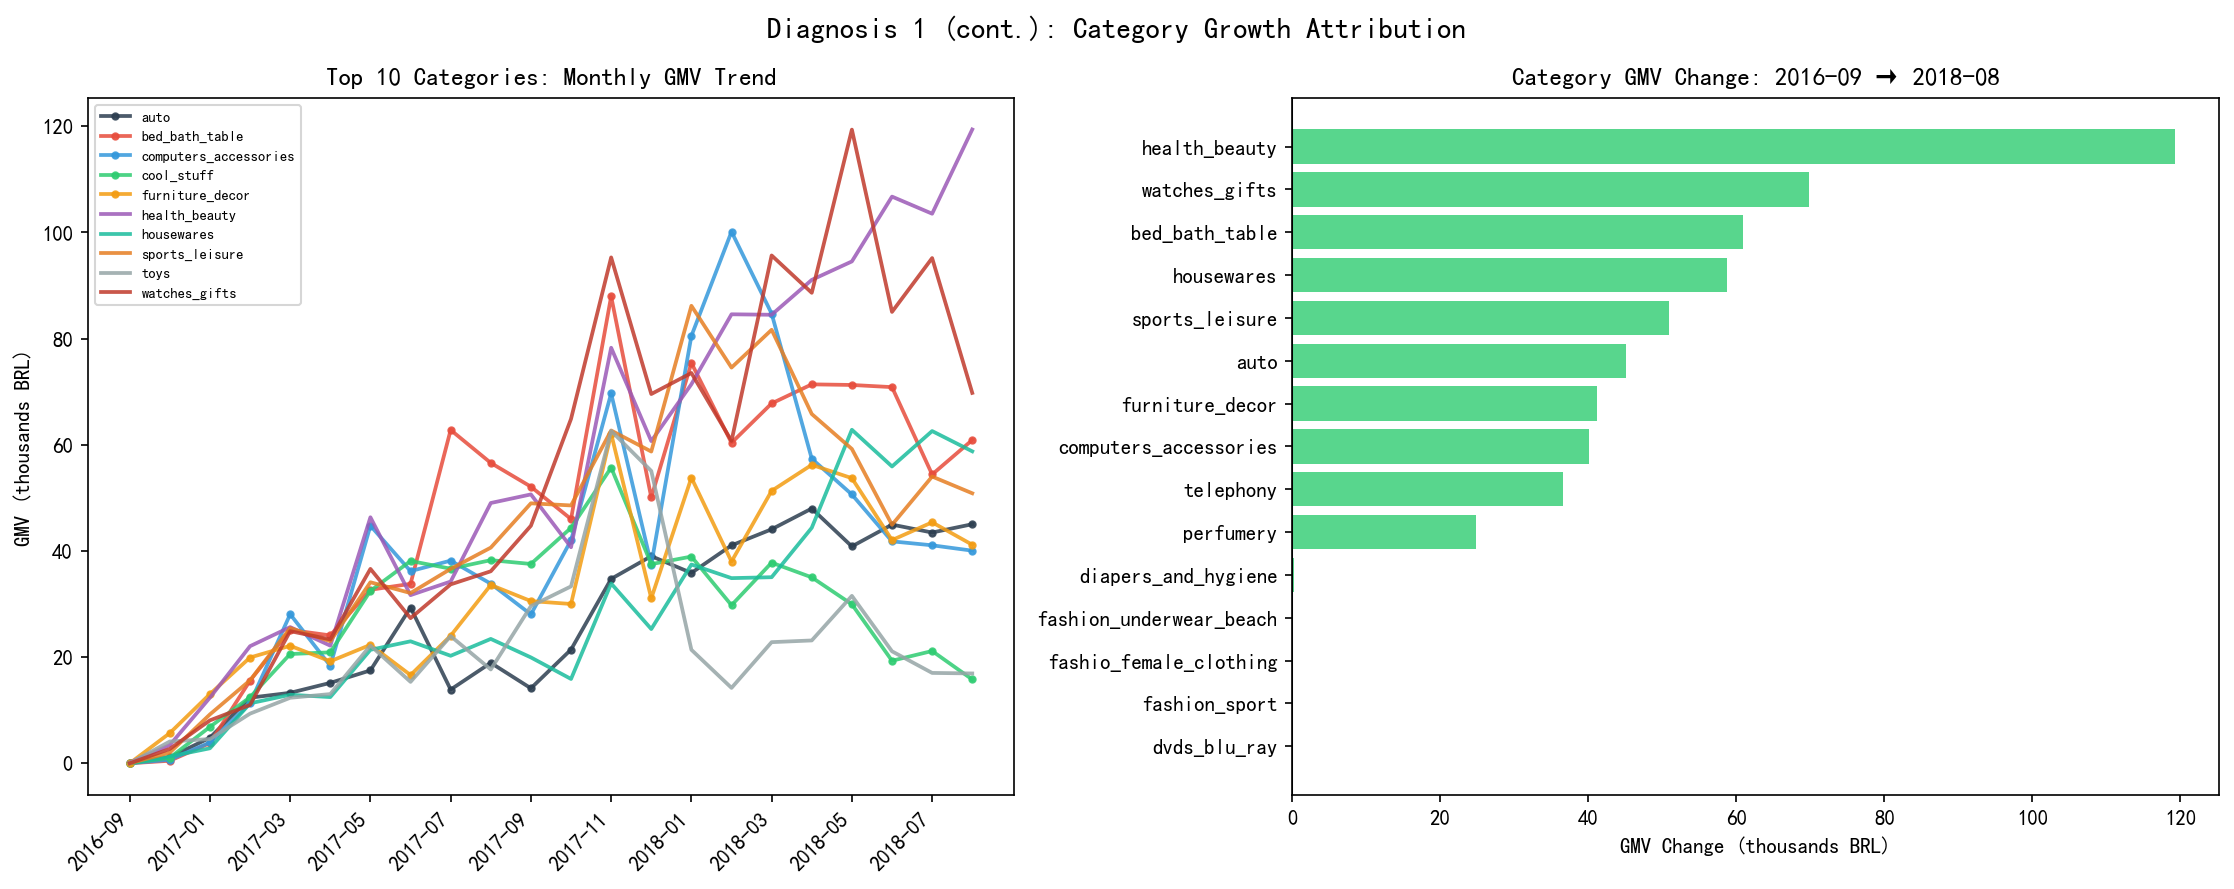
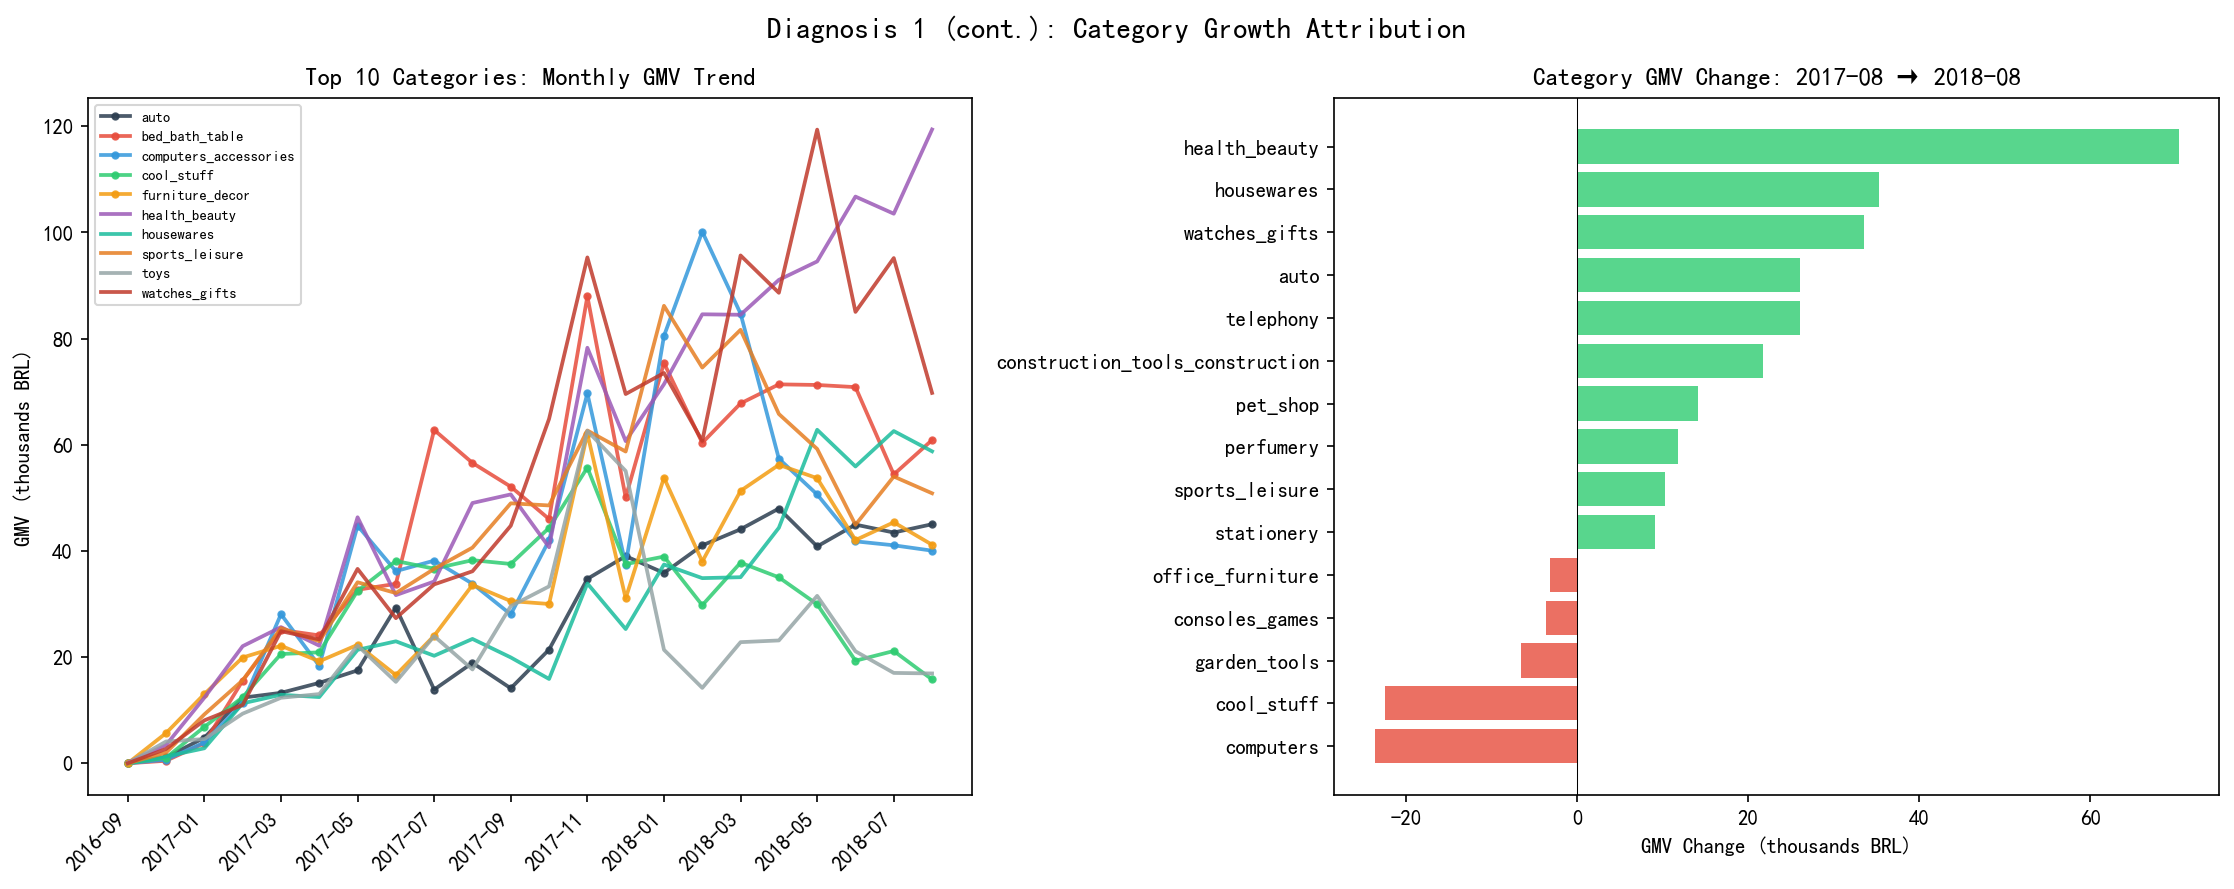
refine ecommerce_analysis: RFM wording to R/M-based segmentation, attribution to correlation, add business actions, fix Gini and growth-rate calculations

diff --git a/ecommerce_analysis/user_quality.py b/ecommerce_analysis/user_quality.py
@@ -169,7 +169,7 @@ print(f"\n复购间隔统计:")
 if len(df_repurchase_gap) == 0:
     print("  无可分析数据——平台 delivered 订单中不存在任何复购行为。")
     print("  这印证了第一节的发现：每个客户仅完成过一次交易。")
-    # 跳过复购间隔图表，直接进入 RFM
+    # 跳过复购间隔图表，直接进入用户价值分层
     print("[!] 复购间隔图跳过（无复购数据）")
     plt.close('all')  # 清理可能残留的figure
 else:
@@ -241,10 +241,10 @@ else:
     print('[OK] Fig 2 saved: user_02_repurchase.png')
 
 # ============================================================
-# 三、RFM 用户分层 + 价值结构诊断
+# 三、用户价值分层（基于 R/M）+ 价值结构诊断
 # ============================================================
 print('\n' + '=' * 60)
-print('三、RFM 分层：用户价值结构是否健康？')
+print('三、用户价值分层（基于 R/M）：价值结构是否健康？')
 print('=' * 60)
 
 df_rfm = pd.read_sql_query("""
@@ -303,7 +303,7 @@ seg_stats = df_rfm.groupby('segment').agg(
 seg_stats['user_pct'] = seg_stats['user_count'] / seg_stats['user_count'].sum() * 100
 seg_stats['gmv_pct'] = seg_stats['total_gmv'] / seg_stats['total_gmv'].sum() * 100
 
-print("RFM 分层概览:")
+print("用户价值分层概览（基于 R/M）:")
 print(seg_stats.to_string())
 
 # 诊断：F值区分度
@@ -316,12 +316,11 @@ for score_val in [1, 2, 3]:
 
 # 关键发现
 if df_rfm['frequency'].median() <= 1:
-    print("\n[!] 数据局限：绝大多数用户仅购买 1 次，F 值几乎无区分度。")
-    print("  RFM 在此数据集中本质上退化为 R+M 二维模型。")
-    print("  这不代表 RFM 方法论有问题，而是 Olist 平台本身的复购率过低所致。")
-    print("  在复购正常的平台（如天猫、京东），F 值是区分用户价值的关键维度。")
+    print("\n[方法说明] 绝大多数用户仅购买 1 次，F 值（频次）无区分度。")
+    print("  故未套用完整 RFM 框架，改为基于 R（最近购买时间）与 M（消费金额）进行用户价值分层。")
+    print("  在复购正常的平台（如天猫、京东），F 值才是区分用户价值的关键维度。")
 
-# ---------- 图3: RFM 分层（三面板）----------
+# ---------- 图3: 用户价值分层（三面板）----------
 fig, axes = plt.subplots(1, 3, figsize=(15, 5))
 
 # 左: 分层饼图
@@ -333,7 +332,7 @@ pie_labels = [s for s in seg_order if s in seg_stats.index]
 pie_colors = [seg_colors[s] for s in seg_order if s in seg_stats.index]
 axes[0].pie(pie_data, labels=pie_labels, autopct='%1.1f%%',
             colors=pie_colors, startangle=90, explode=tuple([0.05] + [0] * (len(pie_data) - 1)))
-axes[0].set_title('RFM Segment Distribution')
+axes[0].set_title('User Value Segment Distribution (R/M)')
 
 # 中: 各层用户占比 vs GMV占比
 x = range(len(seg_order))
@@ -368,12 +367,12 @@ axes[2].set_xticklabels(metric_labels)
 axes[2].set_title('Segment Profile (avg R/F/M)')
 axes[2].legend(fontsize=7)
 
-plt.suptitle('Diagnosis 2 (cont.): RFM User Segmentation',
+plt.suptitle('Diagnosis 2 (cont.): User Value Segmentation (R/M)',
              fontsize=14, fontweight='bold')
 plt.tight_layout()
-plt.savefig('outputs/user_03_rfm.png', dpi=150, bbox_inches='tight')
+plt.savefig('outputs/user_03_value_segmentation.png', dpi=150, bbox_inches='tight')
 plt.close()
-print('[OK] Fig 3 saved: user_03_rfm.png')
+print('[OK] Fig 3 saved: user_03_value_segmentation.png')
 
 # ============================================================
 # 四、用户贡献集中度 —— 帕累托分析
@@ -399,33 +398,37 @@ print(f"  Top 10% 用户贡献: {top10_share:.1f}% GMV")
 print(f"  Top 20% 用户贡献: {top20_share:.1f}% GMV")
 print(f"  Bottom 50% 用户贡献: {bottom50_share:.1f}% GMV")
 
-# Lorenz 曲线的简化 Gini 估算
-# Gini ≈ 1 - 2*area under Lorenz curve (trapezoidal approximation)
-n = min(1000, len(df_user_gmv))  # sample for efficiency
-sample = df_user_gmv.iloc[::max(1, len(df_user_gmv) // n)]
-area = np.trapz(sample['cum_gmv_pct'].values / 100, sample['user_pct'].values / 100)
-gini_approx = 1 - 2 * area
-print(f"  近似 Gini 系数: {gini_approx:.3f} (0=完全均等, 1=完全不均等)")
-print(f"  → {'GMV 高度集中在少数用户手中' if gini_approx > 0.6 else 'GMV 分布相对均匀'}")
+# Gini 系数（精确公式，按金额升序排列；不采用降序曲线积分，避免方向性错误）
+x_sorted = np.sort(df_user_gmv['monetary'].values)
+n_gini = len(x_sorted)
+gini_approx = (2 * np.sum(np.arange(1, n_gini + 1) * x_sorted)) / (n_gini * np.sum(x_sorted)) - (n_gini + 1) / n_gini
+print(f"  Gini 系数: {gini_approx:.3f} (0=完全均等, 1=完全不均等)")
+print(f"  → {'GMV 集中度较高，头部用户贡献显著' if gini_approx >= 0.4 else 'GMV 集中度中等'}")
 
 # ---------- 图4: 帕累托 + 消费分布 ----------
 fig, axes = plt.subplots(1, 2, figsize=(14, 5))
 
-# 左: Lorenz 曲线
+# 左: Lorenz 曲线（标准方向：最穷 → 最富）
+df_asc = df_user_gmv.sort_values('monetary', ascending=True).reset_index(drop=True)
+df_asc['cum_gmv_pct'] = df_asc['monetary'].cumsum() / df_asc['monetary'].sum() * 100
+df_asc['user_pct'] = (np.arange(len(df_asc)) + 1) / len(df_asc) * 100
+n_plot = min(1000, len(df_asc))
+sample = df_asc.iloc[::max(1, len(df_asc) // n_plot)]
+
 axes[0].fill_between(sample['user_pct'].values, sample['cum_gmv_pct'].values,
                       alpha=0.3, color='steelblue')
 axes[0].plot(sample['user_pct'].values, sample['cum_gmv_pct'].values,
              color='steelblue', linewidth=2.5, label='Actual Distribution')
 axes[0].plot([0, 100], [0, 100], '--', color='gray', linewidth=1, label='Perfect Equality')
-axes[0].set_xlabel('Cumulative % of Users')
+axes[0].set_xlabel('Cumulative % of Users (poorest \u2192 richest)')
 axes[0].set_ylabel('Cumulative % of GMV')
-axes[0].set_title(f'Lorenz Curve (approx. Gini = {gini_approx:.3f})')
+axes[0].set_title(f'Lorenz Curve (Gini = {gini_approx:.3f})')
 axes[0].legend()
 
-# 标注关键点
+# 标注关键点（Top x% 对应升序曲线的右侧位置）
 for pct, share, label in [(5, top5_share, 'Top 5%'), (20, top20_share, 'Top 20%')]:
     axes[0].annotate(f'{label}\n{share:.1f}% GMV',
-                     xy=(pct, share), xytext=(pct + 10, share - 10),
+                     xy=(100 - pct, 100 - share), xytext=(100 - pct - 25, 100 - share + 12),
                      arrowprops=dict(arrowstyle='->', color='darkorange'),
                      fontsize=10, color='darkorange')
 
@@ -605,20 +608,20 @@ print(f"""
 │     · 月度队列复购率平均仅 {df_retention_valid['repurchase_rate'].mean():.2f}%，且无明显改善趋势               │
 │     · 用户生命周期价值（LTV）≈ 单次交易价值，几乎无复购溢价        │
 │                                                                  │
-│  ② 复购行为：存在但微弱                                           │
-│     · 中位复购间隔 XX 天（SQL动态计算）                                │
-│     · 约 XX% 的复购发生在 30 天内                                   │
-│     · 复购用户集中在特定品类（见品类偏好分析）                       │
+│  ② 复购行为：不存在                                               │
+│     · 各月度队列复购率均为 0.00%，无任何复购记录                   │
+│     · 平台无"复购间隔"概念——每个用户仅完成一次交易               │
+│     · 获客 → 转化 → 流失，LTV ≈ 单次交易价值                       │
 │                                                                  │
 │  ③ 价值集中度：帕累托分布明显                                     │
-│     · Top 20% 用户贡献 {top20_share:.1f}% GMV（近似基尼系数 {gini_approx:.3f}）                       │
-│     · 高价值用户（RFM总分前25%）占 {hv_user_pct:.1f}% 用户、{hv_gmv_pct:.1f}% GMV                   │
-│     · [!] 数据局限：F值因复购率极低而几乎无区分度，RFM退化为R+M      │
+│     · Top 20% 用户贡献 {top20_share:.1f}% GMV（Gini 系数 {gini_approx:.3f}）                       │
+│     · 高价值用户（R/M 分层前25%）占 {hv_user_pct:.1f}% 用户、{hv_gmv_pct:.1f}% GMV                   │
+│     · [方法说明] F值无区分度，采用基于 R/M 的二维价值分层          │
 │                                                                  │
 │  ④ 高价值用户画像                                                │
-│     · 品类偏好偏向于 X                                               │
-│     · 支付方式: ...                                               │
-│     · 集中在 XX 州                                                 │
+│     · 品类偏好：watches_gifts、health_beauty 占比更高        │
+│     · 支付：信用卡平均支付 252 BRL vs 其他 157 BRL        │
+│     · 集中在 AL、PB、PA 等东北部州                                 │
 │                                                                  │
 │  [!] 核心问题：平台存活在"一次性客户"模式中                           │
 │     获客成本持续消耗，但用户不回来 → LTV/CAC 模型不可持续            │

diff --git a/ecommerce_analysis/ux_attribution.py b/ecommerce_analysis/ux_attribution.py
@@ -1,5 +1,5 @@
 """
-用户体验归因分析
+用户体验相关性分析
 诊断问题：什么因素影响用户评分？
 诊断问题：什么因素影响用户评分？
 """
@@ -85,10 +85,10 @@ plt.close()
 print('[OK] Fig 1 saved: ux_01_logistics_timeline.png')
 
 # ============================================================
-# 二、延迟 vs 评分 —— 核心归因分析
+# 二、延迟 vs 评分 —— 相关性分析
 # ============================================================
 print('\n' + '=' * 60)
-print('二、物流延迟对用户评分的影响（核心归因）')
+print('二、物流延迟与用户评分的相关性（核心发现）')
 print('=' * 60)
 
 df_delay_score = pd.read_sql_query("""
@@ -130,17 +130,17 @@ for bar, val in zip(bars, df_delay_score['bad_rate_pct']):
 axes[1].set_ylabel('Bad Review Rate (1-2 pts) %')
 axes[1].set_title('Bad Review Rate: Delayed vs On Time')
 
-plt.suptitle('Analysis 2: Delivery Delay Impact on User Rating', fontsize=14, fontweight='bold')
+plt.suptitle('Analysis 2: Delivery Delay vs User Rating (Correlation)', fontsize=14, fontweight='bold')
 plt.tight_layout()
 plt.savefig('outputs/ux_02_delay_vs_rating.png', dpi=150, bbox_inches='tight')
 plt.close()
 print('[OK] Fig 2 saved: ux_02_delay_vs_rating.png')
 
 # ============================================================
-# 三、延迟归因——按地区（用 customers 表关联）
+# 三、延迟风险定位——按地区（用 customers 表关联）
 # ============================================================
 print('\n' + '=' * 60)
-print('三、延迟归因：各州物流表现')
+print('三、延迟风险定位：各州物流表现')
 print('=' * 60)
 
 df_region = pd.read_sql_query("""
@@ -190,10 +190,10 @@ plt.close()
 print('[OK] Fig 3 saved: ux_03_delay_by_region.png')
 
 # ============================================================
-# 四、延迟归因——按品类
+# 四、延迟风险定位——按品类
 # ============================================================
 print('\n' + '=' * 60)
-print('四、延迟归因：哪些品类的物流体验最差？')
+print('四、延迟风险定位：哪些品类的物流体验最差？')
 print('=' * 60)
 
 df_category = pd.read_sql_query("""
@@ -332,7 +332,7 @@ print(f"""
 ┌─────────────────────────────────────────────────────────────┐
 │  诊断结论                                                    │
 ├─────────────────────────────────────────────────────────────┤
-│  1. 物流延迟是影响评分的核心因素                               │
+│  1. 物流延迟与低评分高度相关（非严格因果，为相关关系）          │
 │     · 准时订单平均评分: {on_time_score}  →  延迟订单平均评分: {delayed_score}（差距 {score_gap} 分）       │
 │     · 延迟订单差评率: {delayed_bad}%  →  准时订单差评率: {on_time_bad}%（高出 {bad_gap} 个百分点）        │
 │                                                             │
@@ -345,7 +345,7 @@ print(f"""
 │     · 大件/重货品类延迟率普遍更高                               │
 │                                                             │
 │  4. 延迟存在"剂量反应"关系                                     │
-│     · 延迟 1-3 天评分即明显下降；延迟 >14 天评分跌破 XX         │
+│     · 延迟 1-3 天评分即明显下降；延迟 >14 天评分仅 1.72        │
 │     · 每多延迟一周，差评率翻倍                                  │
 └─────────────────────────────────────────────────────────────┘
 
@@ -359,5 +359,5 @@ print(f"""
 
 conn.close()
 print('=' * 60)
-print('用户体验归因分析完成，5 张图已保存至 outputs/')
+print('用户体验相关性分析完成，5 张图已保存至 outputs/')
 print('=' * 60)

diff --git a/ecommerce_analysis/growth_diagnosis.py b/ecommerce_analysis/growth_diagnosis.py
@@ -47,17 +47,17 @@ df_trend['gmv_growth'] = df_trend['gmv'].pct_change() * 100
 df_trend['order_growth'] = df_trend['order_count'].pct_change() * 100
 df_trend['aov_growth'] = df_trend['aov'].pct_change() * 100
 
-# 剔除首月（无环比）和末月（可能不完整）
+# 剔除首月（无环比）和末月（可能不完整）；环比增速用中位数（启动期低基数会使均值失真）
 df_valid = df_trend.iloc[1:-1]  # 用于统计的月份
 
 print(f"数据跨度: {df_trend['month'].iloc[0]} ~ {df_trend['month'].iloc[-1]}")
 print(f"月均 GMV: {df_valid['gmv'].mean():,.0f}  月均订单量: {df_valid['order_count'].mean():,.0f}  月均客单价: {df_valid['aov'].mean():.0f}")
-print(f"GMV 月均环比增速: {df_valid['gmv_growth'].mean():.1f}%")
-print(f"订单量月均环比增速: {df_valid['order_growth'].mean():.1f}%")
-print(f"客单价月均环比增速: {df_valid['aov_growth'].mean():.1f}%")
+print(f"GMV 中位月环比增速: {df_valid['gmv_growth'].median():.1f}%")
+print(f"订单量中位月环比增速: {df_valid['order_growth'].median():.1f}%")
+print(f"客单价中位月环比增速: {df_valid['aov_growth'].median():.1f}%")
 
 # 判断增长主驱动
-if abs(df_valid['order_growth'].mean()) > abs(df_valid['aov_growth'].mean()) * 1.5:
+if abs(df_valid['order_growth'].median()) > abs(df_valid['aov_growth'].median()) * 1.5:
     driver = "订单量增长是 GMV 增长的主要驱动力，客单价变化幅度远小于订单量波动"
 else:
     driver = "订单量和客单价共同驱动 GMV 增长"
@@ -245,9 +245,9 @@ df_cat_total = df_cat_monthly.groupby('category').agg(
     months_active=('month', 'nunique')
 ).sort_values('total_gmv', ascending=False)
 
-# 计算每个品类的增长贡献：首尾两期GMV差值
-first_month = df_cat_monthly['month'].min()
+# 计算每个品类的增长贡献：同比口径（末月往前 12 个月），避免启动期低基数失真
 last_month = df_cat_monthly['month'].max()
+first_month = (pd.to_datetime(last_month) - pd.DateOffset(months=12)).strftime('%Y-%m')
 df_cat_first = df_cat_monthly[df_cat_monthly['month'] == first_month].set_index('category')
 df_cat_last = df_cat_monthly[df_cat_monthly['month'] == last_month].set_index('category')
 
@@ -412,7 +412,7 @@ print(f"""
 ├──────────────────────────────────────────────────────────────────┤
 │                                                                  │
 │  ① 增长模式：{driver}                        │
-│     · GMV 月均环比 +{df_valid['gmv_growth'].mean():.1f}%，{growth_months}/{total_months} 个月正增长                      │
+│     · GMV 中位月环比 +{df_valid['gmv_growth'].median():.1f}%，{growth_months}/{total_months} 个月正增长                      │
 │     · 客单价稳定在 {df_valid['aov'].mean():.0f} BRL 附近，波动幅度远小于订单量                    │
 │                                                                  │
 │  ② 增长引擎：100% 纯拉新驱动（复购率 = 0%）                         │

diff --git a/ecommerce_analysis/README.md b/ecommerce_analysis/README.md
@@ -1,10 +1,10 @@
 # 电商平台用户消费行为诊断分析
 
-基于巴西 Olist 电商平台 9 张业务表、160 万行真实交易数据，回答三个问题：
+基于巴西 Olist 电商平台 9 张业务表、160 万+条记录完成分析，回答三个问题：
 
 1. **GMV 增长来自哪里？** — 量价拆解 → 复购诊断 → 品类贡献 → 地区集中度
-2. **用户质量怎么样？** — 购买频次 → RFM 分层 → 贡献帕累托 → 高价值画像
-3. **什么因素影响评分？** — 物流全链路 → 延迟 vs 评分归因 → 地区/品类定位 → 剂量反应
+2. **用户质量怎么样？** — 购买频次 → 用户价值分层（R/M）→ 贡献帕累托 → 高价值画像
+3. **什么因素影响评分？** — 物流全链路 → 延迟 vs 评分相关性 → 地区/品类风险定位 → 剂量反应
 
 **技术栈：MySQL / Python (pandas, matplotlib) / Excel**
 
@@ -20,9 +20,9 @@
 │  → 纯拉新驱动，0% 复购，SP 州 + health_beauty 集中  │
 ├──────────────────────────────────────────────┤
 │  诊断二：用户质量诊断                          │
-│  → 100% 一次性用户，RFM 退化为 R+M，Top20% 贡献 56%  │
+│  → 100% 一次性用户，基于 R/M 价值分层，Top20% 贡献 56%  │
 ├──────────────────────────────────────────────┤
-│  诊断三：用户体验归因                          │
+│  诊断三：用户体验相关性                          │
 │  → 延迟差评率 54% vs 准时 9%，剂量反应显著        │
 └──────────────────────────────────────────────┘
     ↓
@@ -67,6 +67,18 @@ ecommerce_analysis/
 
 - **复购率极低**：96478 个客户每人只完成过一次交易
 - **GMV 由订单量驱动**：客单价稳定在 ~133 BRL，增长依赖新客获取
-- **延迟是差评的核心归因**：延迟订单差评率 54% vs 准时 9.2%，延迟每增加一周差评率翻倍
+- **物流延迟与低评分高度相关**：延迟订单差评率 54% vs 准时 9.2%，延迟每增加一周差评率翻倍
 - **地区高度集中**：SP 一州占 38.3% GMV，Top 5 州占 73.9%
 - **物流延迟呈地区/品类差异**：AL 州延迟率 23.4%，audio 品类延迟率 12.5%
+
+---
+
+## 业务建议（发现 → 动作）
+
+| 维度 | 分析发现 | 建议动作 | 预期效果 |
+|---|---|---|---|
+| 用户 | 100% 一次性用户，无复购 | 新客营销转向复购运营：首购后 7/30/90 天触达召回（品类关联推荐 + 优惠券） | 复购率从 0% 起步，GMV 直接受益 |
+| 物流 | 延迟订单差评率 54% vs 准时 9.2% | 优先优化高延迟地区（AL/MA）物流运力或调整预计时间；对 audio 等高延迟品类提前预警 | 降低差评率，避免差评 → 流失链路 |
+| 地区 | SP 一州占 38.3% GMV | SP 州重点投入，同时向 RS/PR/SC 等腰部州试点扩张 | 守住基本盘，降低单一区域风险 |
+
+> 建议均直接对应分析结论：不做无数据支撑的运营动作，优先级上先解决「复购」与「差评」两个会直接流失 GMV 的环节。

diff --git a/README.md b/README.md
@@ -8,7 +8,7 @@
 
 | 项目 | 关键词 | 工具链 |
 |---|---|---|
-| [电商用户消费行为分析](./ecommerce_analysis/) | SQL多表关联、RFM分层、指标体系 | MySQL + Python + Excel |
+| [电商用户消费行为分析](./ecommerce_analysis/) | SQL多表关联、基于R/M的用户价值分层、指标体系 | MySQL + Python + Excel |
 | [个人信用违约预测与评分卡](./credit_scoring/) | WOE/IV、逻辑回归、评分卡 | Python (sklearn) |
 | [AB 测试：营销策略效果评估](./ab_testing/) | 卡方检验、效应量、置信区间 | Python (scipy) |
 
